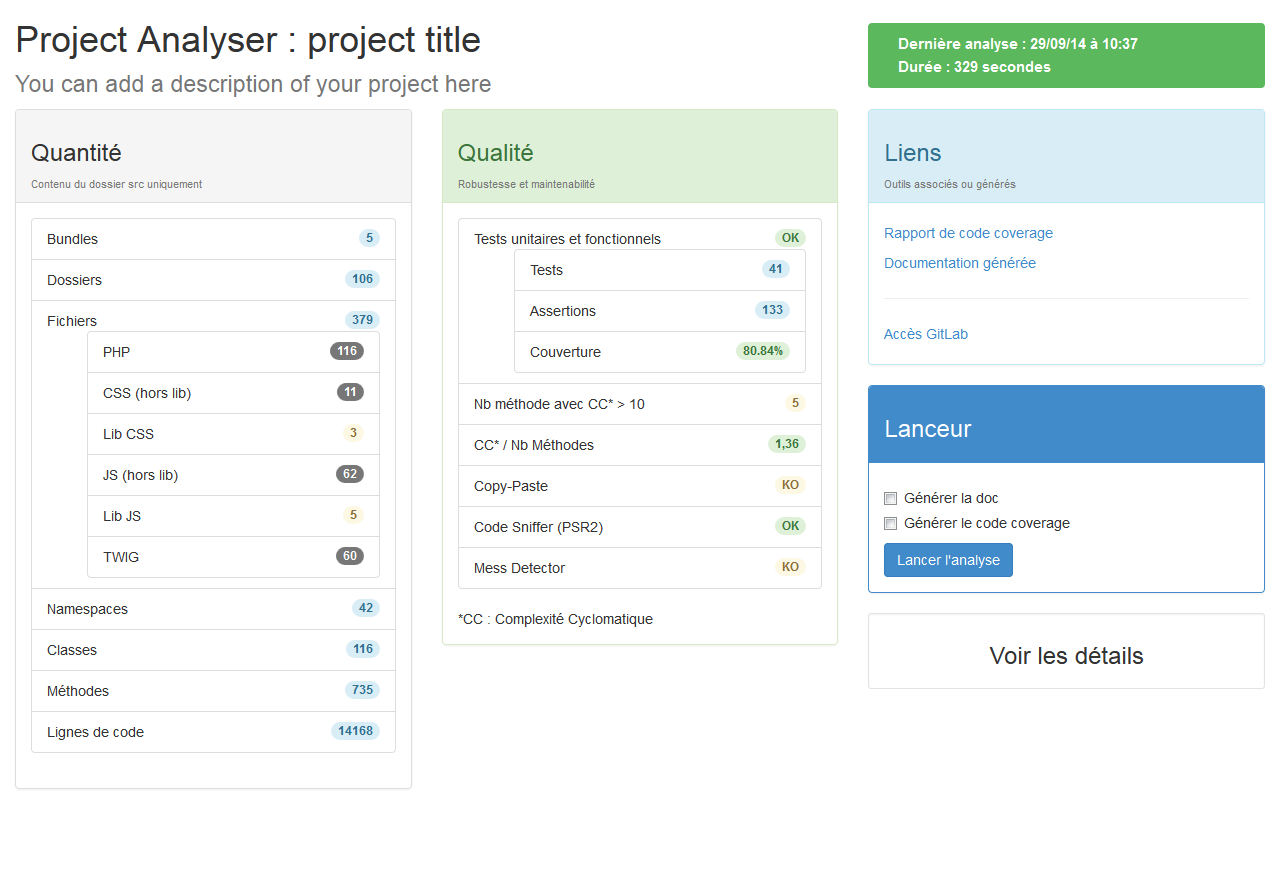
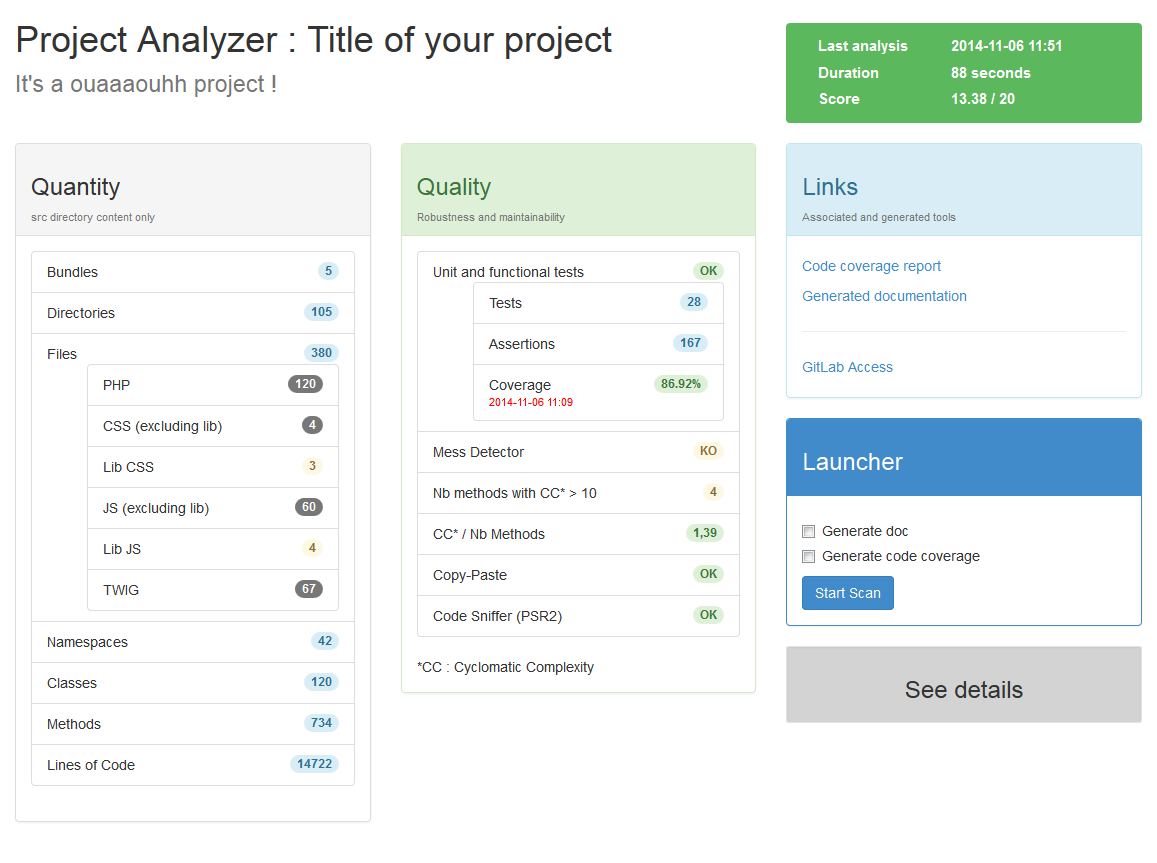
adaptation datetime lang

diff --git a/assets/php/projectAnalyser.class.php b/assets/php/projectAnalyser.class.php
@@ -148,7 +148,7 @@ class projectAnalyser
     function getDateGeneration($file)
     {
         if (file_exists($file)) {
-            return 'Généré le '.date('d/m/y à H:i', filemtime($file));
+            return 'Généré le '.$this->getReadableDateTime(filemtime($file));
         } else {
             return 'Non généré';
         }
@@ -273,7 +273,7 @@ class projectAnalyser
         $testReportFile = $this->_reportPath.'/TEST/report.txt';
         if (file_exists($testReportFile)) {
             $res['report'] = $this->adaptPhpUnitReport($testReportFile);
-            $res['date']=date('d/m/y à H:i', filemtime($testReportFile));
+            $res['date']=$this->getReadableDateTime(filemtime($testReportFile));
 
             $lines = file($testReportFile);
             foreach ($lines as $l) {
@@ -311,7 +311,7 @@ class projectAnalyser
 
         $covReportFile = $this->_reportPath.'/TEST/coverage.txt';
         if (file_exists($covReportFile)) {
-            $res['dateTimeCC']=date('d/m/y à H:i', filemtime($covReportFile));
+            $res['dateTimeCC']=$this->getReadableDateTime(filemtime($covReportFile));
 
             $lines = file($covReportFile);
             foreach ($lines as $k=>$v) {
@@ -365,7 +365,7 @@ class projectAnalyser
         $file = $this->_dirRoot.'jetons/timeAnalyse';
         $res = array('date'=>'/', 'time'=>'/', 'mem'=>'/');
         if (file_exists($file)) {
-            $res ['date']=date('d/m/y à H:i', filemtime($file));
+            $res ['date']=$this->getReadableDateTime(filemtime($file));
             $res['time']=  file_get_contents($file);
         }
 
@@ -389,5 +389,14 @@ class projectAnalyser
         $note = $cs*100 + $test*$cc + $loc/1000;
 
         return round(($note/15), 2);
+    }
+
+    function getReadableDateTime($dt)
+    {
+        if ($this->_parameters['lang'] == 'fr') {
+            return date('d/m/y à H:i', $dt);
+        } else {
+            return date('Y-m-d H:i', $dt);
+        }
     }
 }
